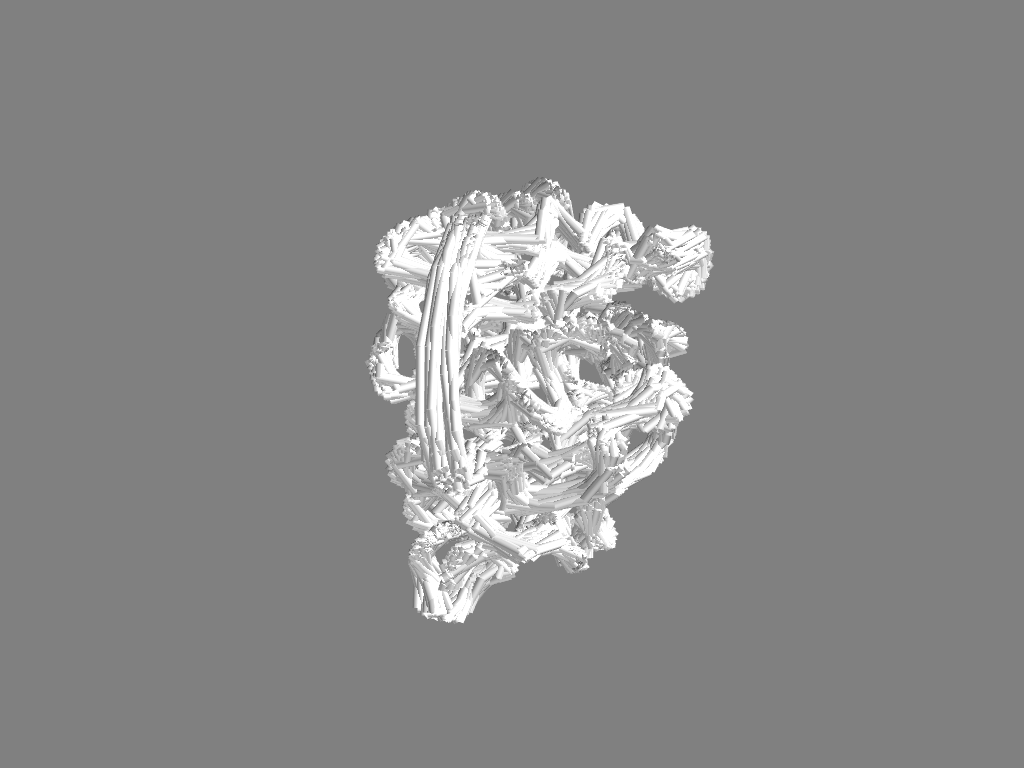
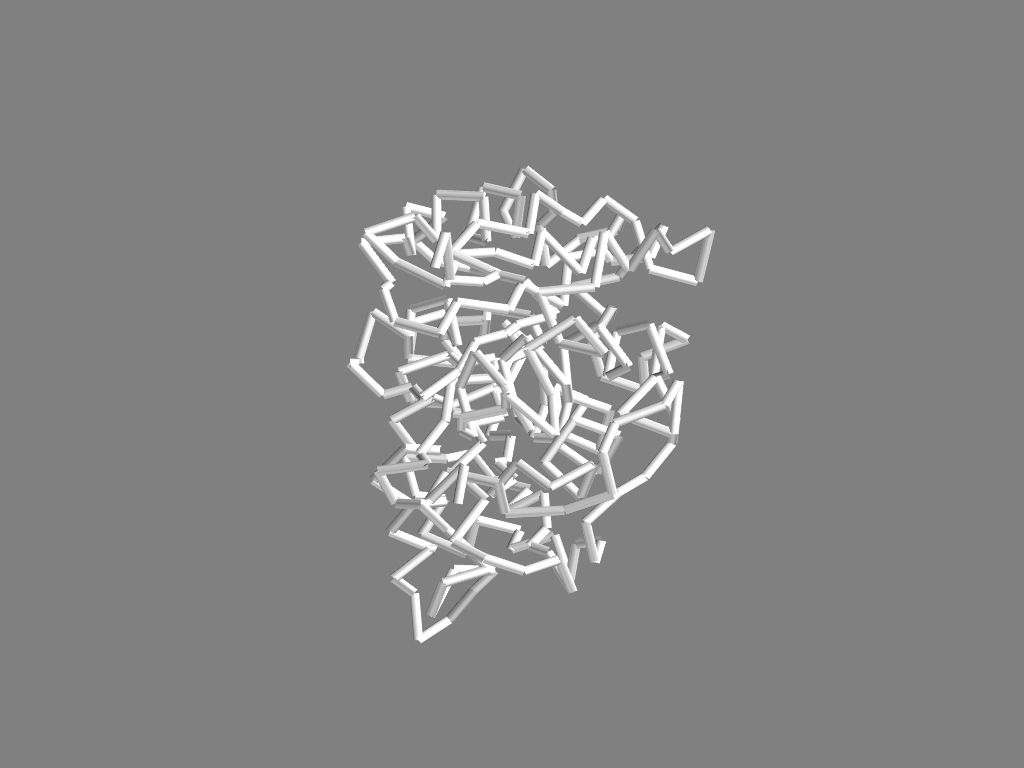
Residues, bonds, backbone all work with dynamic

Changed region(s): [[0.3438, 0.2188, 0.7188, 0.8438]]

diff --git a/provis/src/processing/data_handler.py b/provis/src/processing/data_handler.py
@@ -7,6 +7,7 @@ from os.path import exists
 import pandas as pd
 from biopandas.mol2 import PandasMol2
 import trimesh
+from biopandas.mol2 import split_multimol2
 
 from provis.utils.atminfo import import_atm_size_info, import_atm_mass_info
 from provis.utils.bond_parser import bond_parser
@@ -65,12 +66,11 @@ class DataHandler:
         
         :param name: show_solvent - If True solvent molecules also added to retrun dictionary. Default: False.
         :param type: bool, optional
+        :param name: model_id - The dynamic model ID of the desired molecule. Count starts at 0. Leave default value for static molecules. Default: 0.
+        :param type: int, optional
         
         :returns: dict - Dictionary of atomic coordinates by atom type.
         """
-        # load file into a python list
-        residues = self._structure.get_residues()
-        residues_list = list(residues)
 
         i = 0
         atom_data = dict()
@@ -146,9 +146,12 @@ class DataHandler:
         # return the 3D positions of atoms organized by atom type
         return atom_data, res_id, atom_coords
 
-    def get_residues(self):
+    def get_residues(self, model_id=0):
         """
         Creates a dictionary of coordinates by residues from structure object
+                
+        :param name: model_id - The dynamic model ID of the desired molecule. Count starts at 0. Leave default value for static molecules. Default: 0.
+        :param type: int, optional
         
         :returns: dict - Dictionary of atomic coordinates by residue type.
         """
@@ -159,18 +162,21 @@ class DataHandler:
 
         # initialize dictionary, then fill up iteratively
         res_data = dict()
-        for res in res_list:
-            type_name = res.get_resname()
-            center_coord = [0., 0., 0.]
-            c = 0.
-            for atom in res:
-                center_coord = center_coord + atom.get_coord()
-                c += 1.
-            center_coord = center_coord / c
-            if type_name not in res_data:
-                res_data[type_name] = [center_coord]
-            else:
-                res_data[type_name].append(center_coord)
+        for model in self._structure:
+            if model.id == model_id:
+                for chain in model:
+                    for res in chain:
+                        type_name = res.get_resname()
+                        center_coord = [0., 0., 0.]
+                        c = 0.
+                        for atom in res:
+                            center_coord = center_coord + atom.get_coord()
+                            c += 1.
+                        center_coord = center_coord / c
+                        if type_name not in res_data:
+                            res_data[type_name] = [center_coord]
+                        else:
+                            res_data[type_name].append(center_coord)
 
         # return the 3D positions of atoms organized by atom type
         return res_data
@@ -380,7 +386,7 @@ class DataHandler:
         # return list of spheres and colors representing each res
         return res_spheres, colors_spheres
 
-    def get_bond_mesh(self):
+    def get_bond_mesh(self, model_id=0):
         """
         Determine bonds from 3D information.
         
@@ -391,6 +397,9 @@ class DataHandler:
             Red for all amide bonds,
             Purple for all aromatic bonds,
             Black for everything else.
+                        
+        :param name: model_id - The dynamic model ID of the desired molecule. Count starts at 0. Leave default value for static molecules. Default: 0.
+        :param type: int, optional
         
         :returns: list - List of pyvista lines representing each bond.
         :retruns: list - List of colors corresponding to the lines in the above list
@@ -402,61 +411,92 @@ class DataHandler:
         if not file_exists:
             self._fc.pdb_to_mol2(self._path, self._out_path)
             
-        pmol = PandasMol2().read_mol2(fname)
-        bonds_in = bond_parser(fname)
 
-        # Find endpoints of bonds, create Line() and add to list of lines
+        i = 0
         bonds = []
         col = []
-        for i in range(len(bonds_in)):
-            my = pmol.df.iloc[int(bonds_in.iloc[i]['atom1'])-1][['x', 'y', 'z']]
-            c = pmol.df.iloc[int(bonds_in.iloc[i]['atom2'])-1][['x', 'y', 'z']]
-            
-            my_coord = my.values.tolist()
-            c_coord = c.values.tolist()
-            if bonds_in.iloc[i]['bond_type'] == '1': #TODO: differentiate between different bonds.
-                line = pv.Line(my_coord, c_coord, resolution=5)
-                col.append('w')
-            elif bonds_in.iloc[i]['bond_type'] == '2':
-                line = pv.Line(my_coord, c_coord, resolution=1)
-                col.append('b')
-            elif bonds_in.iloc[i]['bond_type'] == '3':
-                line = pv.Line(my_coord, c_coord, resolution=1)
-                col.append('g')
-            # amide bond in red
-            elif bonds_in.iloc[i]['bond_type'] == 'am':
-                line = pv.Line(my_coord, c_coord, resolution=1)
-                col.append('r')
-            # aromatic bond in purple
-            elif bonds_in.iloc[i]['bond_type'] == 'ar':
-                line = pv.Line(my_coord, c_coord, resolution=1)
-                col.append('m')
-            else:
-                line = pv.Line(my_coord, c_coord, resolution=1)
-                col.append('k')
-            bonds.append(line)
+        for mol2 in split_multimol2(fname):
+            # only do computation on desired model_id
+            keep_molecule = i == model_id
+            if keep_molecule:
+                # easy to handle the mol2 content as text -> convert it from list
+                str_mol2 = ''.join(mol2[1])
+                
+                # find start and end of the @<TRIPOS>ATOM section
+                start_atom = str_mol2.find('@<TRIPOS>ATOM')
+                # 13 = len('@<TRIPOS>ATOM')
+                end_atom = start_atom + 13 + str_mol2[start_atom:].replace('@<TRIPOS>ATOM','').find('@')
+                # figure out number of atoms
+                num_atoms = int(len(str_mol2[start_atom:end_atom].replace('@<TRIPOS>ATOM\n','').replace('\n',' ').strip().split())/9)
+                # create a dataframe of atoms
+                df_atoms = pd.DataFrame(np.array(str_mol2[start_atom:end_atom].replace('@<TRIPOS>ATOM\n','').replace('\n',' ').strip().split()).reshape((num_atoms,9)), columns=['atom_id', 'atom_name', 'x', 'y', 'z', 'atom_type', 'subst_id', 'subst_name', 'charge'])
+                
+                # find start of the @<TRIPOS>BOND section (end not needed, goes to end of string)
+                start_bond = str_mol2.find('@<TRIPOS>BOND')
+                # figure out number of bonds
+                num_bonds = int(len(str_mol2[start_bond:].replace('@<TRIPOS>BOND\n','').replace('\n',' ').strip().split())/4)
+                # create a dataframe of bonds
+                df_bond = pd.DataFrame(np.array(str_mol2[start_bond:].replace('@<TRIPOS>BOND\n','').replace('\n',' ').strip().split()).reshape((num_bonds,4)), columns=['bond_id', 'atom1', 'atom2', 'bond_type'])
+                
+                # find each the 3D coords for each two atoms in a bond
+                for i in range(num_bonds):
+                    my = df_atoms.iloc[int(df_bond.iloc[i]['atom1'])-1][['x', 'y', 'z']]
+                    c = df_atoms.iloc[int(df_bond.iloc[i]['atom2'])-1][['x', 'y', 'z']]
+                    
+                    my_coord = my.values.tolist()
+                    c_coord = c.values.tolist()
+                    my_coord = [float(i) for i in my_coord]
+                    c_coord = [float(i) for i in c_coord]
+                    if df_bond.iloc[i]['bond_type'] == '1':
+                        line = pv.Line(my_coord, c_coord, resolution=5)
+                        col.append('w')
+                    elif df_bond.iloc[i]['bond_type'] == '2':
+                        line = pv.Line(my_coord, c_coord, resolution=1)
+                        col.append('b')
+                    elif df_bond.iloc[i]['bond_type'] == '3':
+                        line = pv.Line(my_coord, c_coord, resolution=1)
+                        col.append('g')
+                    # amide bond in red
+                    elif df_bond.iloc[i]['bond_type'] == 'am':
+                        line = pv.Line(my_coord, c_coord, resolution=1)
+                        col.append('r')
+                    # aromatic bond in purple
+                    elif df_bond.iloc[i]['bond_type'] == 'ar':
+                        line = pv.Line(my_coord, c_coord, resolution=1)
+                        col.append('m')
+                    else:
+                        line = pv.Line(my_coord, c_coord, resolution=1)
+                        col.append('k')
+                    bonds.append(line)
+            i += 1
         
         return bonds, col
     
-    def get_backbone_mesh(self):
+    def get_backbone_mesh(self, model_id=0):
         """
         Creates and returns a Spline object representing the backbone of the protein.
+                
+        :param name: model_id - The dynamic model ID of the desired molecule. Count starts at 0. Leave default value for static molecules. Default: 0.
+        :param type: int, optional
         
         :returns: numpy.ndarray - List of coordinates representing the centre of mass of each residue. To be used in stick_point to create a Spline.
         """
         
-        residues = self._structure.get_residues()
-        
+        i = 0
         res_list = []
-        for res in residues:
-            if res.get_resname() != "HOH":
-                com = [0, 0, 0]
-                count = 0
-                for atom in res: 
-                    coords = atom.get_coord()
-                    com += coords
-                    count += 1
-                com /= count
-                res_list.append(com)
-                
+        for model in self._structure:
+            if model.id == model_id:
+                for chain in model:
+                    for res in chain:
+                        if res.get_resname() != "HOH":
+                            com = [0, 0, 0]
+                            count = 0
+                            for atom in res:
+                                coords = atom.get_coord()
+                                com += coords
+                                count += 1
+                            com /= count
+                            res_list.append(com)
+            i += 1
+        
         return np.array(res_list)

diff --git a/examples/example.py b/examples/example.py
@@ -32,21 +32,22 @@ def main():
     
     Use the prot.structure (Structure class) and prot.surface (Surface class) member variables to plot.
     """
-#    prot.structure.plot_backbone()
-#    prot.structure.plot_atoms()
-#    prot.structure.plot_bonds()
-#    prot.structure.plot_vw()
-#    prot.structure.plot_stick_point()
+    prot.structure.plot_backbone()
+    prot.structure.plot_atoms()
+    prot.structure.plot_bonds()
+    prot.structure.plot_vw()
+    prot.structure.plot_stick_point()
+    prot.structure.plot_residues()
     r = Residue(29)
     r.add_residue(50)
     r. add_residue(1, 1)
     r.remove_residue(1, 1)
     prot.structure.plot(atoms=1, box=1, bonds=1, vw=0, residues=0, res=r, bb=0)
-#
-#    prot.surface.plot()
-#    prot.surface.plot_hydrophob()
-#    prot.surface.plot_shape()
-#    prot.surface.plot_charge()
+
+    prot.surface.plot()
+    prot.surface.plot_hydrophob()
+    prot.surface.plot_shape()
+    prot.surface.plot_charge()
 
     """
     And finally clean up everything with the "cleanup" function of the prot.file_converter (FileConverter class) member variable.

diff --git a/provis/src/plotting/structure.py b/provis/src/plotting/structure.py
@@ -269,6 +269,16 @@ class Structure:
             outname = self._base_path + 'data/img/' + new_name + '_atoms.png'
         self.plot(atoms=1, box=box, vw=0, bonds=0, residues=0, res=res, outname=outname, title="Atoms", camera=camera)
         
+    def plot_residues(self, box=0, res=0, outname=0, camera=None):
+        """
+        """
+        # save a screenshot
+        if not outname:
+            new_name = self._name.split('/')
+            new_name = new_name[-1].split('.')[0]
+            outname = self._base_path + 'data/img/' + new_name + '_vw.png'
+        self.plot(atoms=0, box=box, vw=0, bonds=0, residues=1, res=res, title="Residues", camera=camera)
+        
     def plot_vw(self, box=0, res=0, outname=0, camera=None):
         """
         Plot Van-der-Waals radius of atoms as wireframe spheres.

diff --git a/provis/src/plotting/surface.py b/provis/src/plotting/surface.py
@@ -68,15 +68,12 @@ class Surface:
         :return: Pyvista.Plotter window - Window with interactive plot.
         """
         # get appropriate mesh and coloring
-        print("pre mesh loading")
         mesh, cas = self._sh.return_mesh_and_color(self._msms, feature=feature, patch=patch)
-        print("mesh and color loaded")
         # plot
         pl = pv.Plotter(notebook=self._notebook)
         pl.background_color = 'grey'
         pl.enable_3_lights()
         pl.add_mesh(mesh, scalars=cas, cmap='RdBu', smooth_shading=self._shading, show_edges=False)
-        print("add mesh done")
         
         # if specified add bounding box
         if box:

diff --git a/provis/src/processing/surface_handler.py b/provis/src/processing/surface_handler.py
@@ -173,7 +173,6 @@ class SurfaceHandler:
             # create rough surface by combining vw radii of each atom
             atom_data, self._res_id, self._atom_coords = self._dh.get_atoms_IDs()
             self._atmsurf, col = self._dh.get_atom_mesh(atom_data, vw=1, probe=0.1)
-#            print(self._atmsurf)
 
             # adding the spheres (by atom type) one at a time
             j = 0
